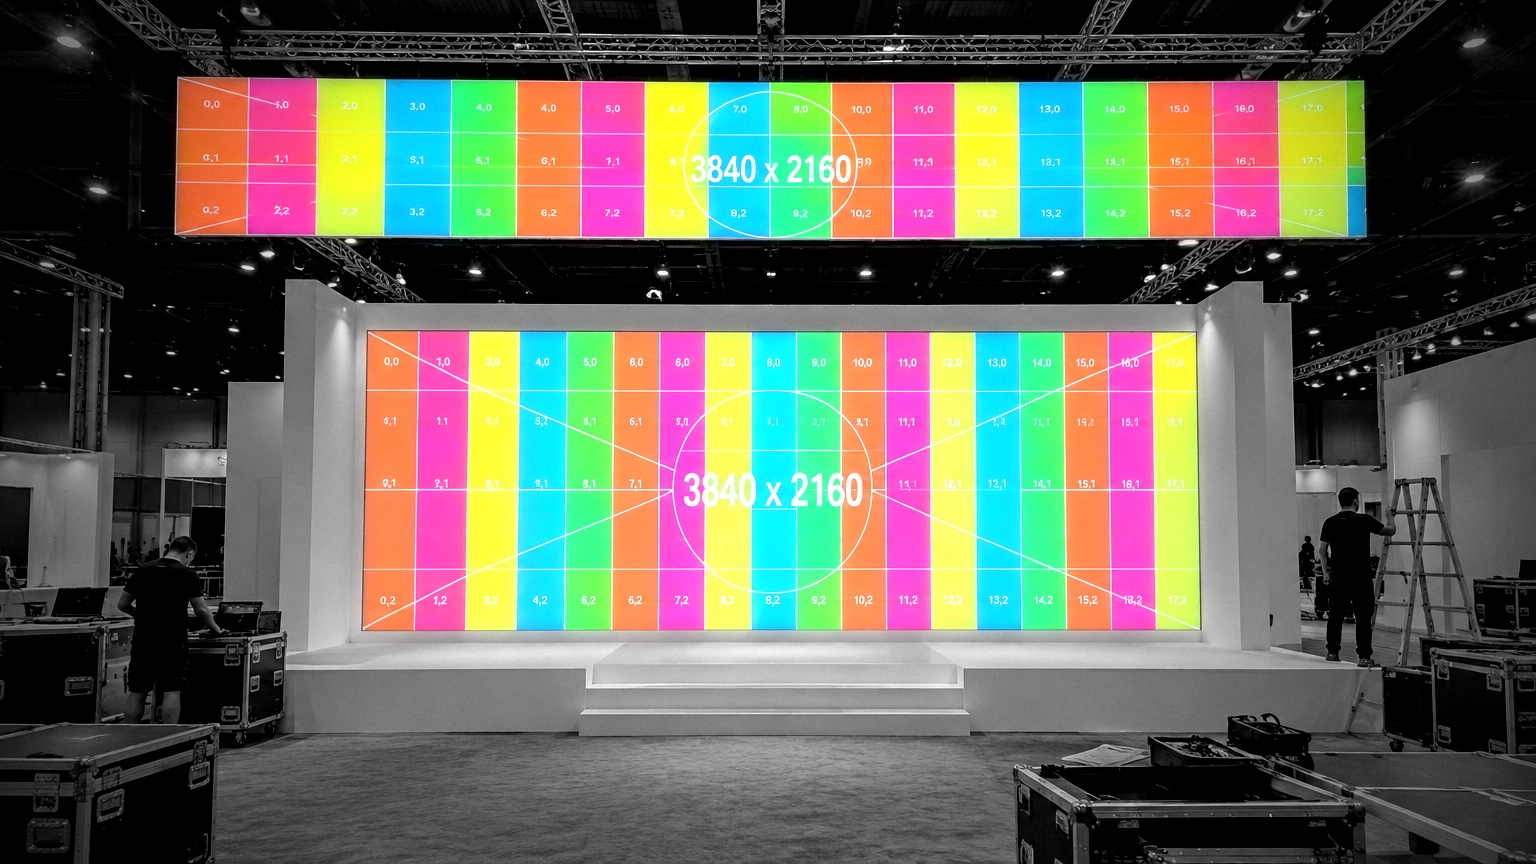
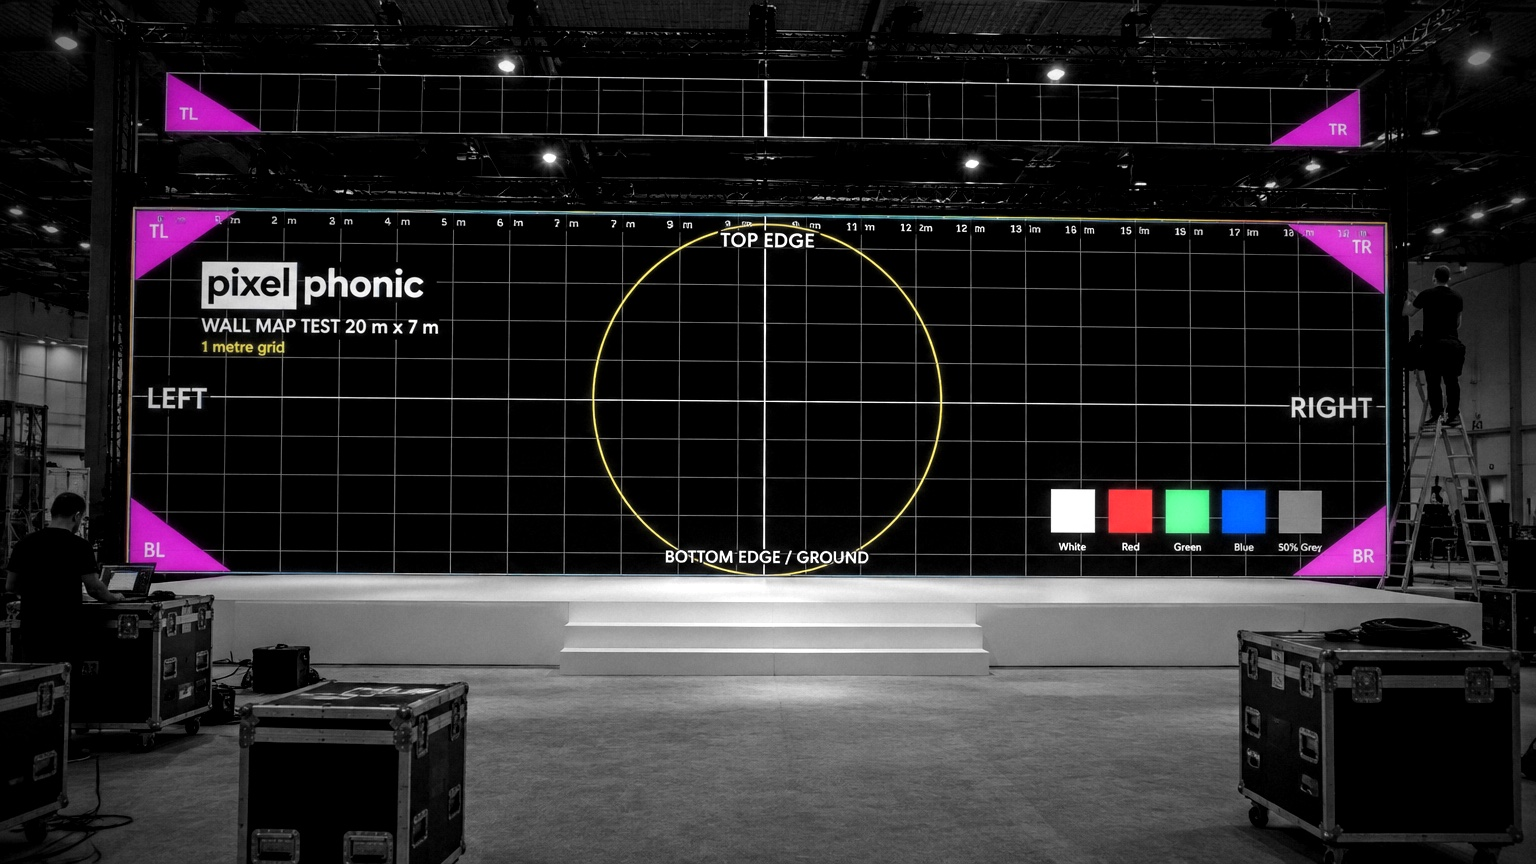
Exhibitions: LED wall now shows the Pixel Phonic wall-map test pattern

diff --git a/index.html b/index.html
@@ -91,7 +91,7 @@
 
     <section class="scene  tape-blue" aria-label="Exhibitions">
       <div class="sticky">
-        <div class="shot"><img src="assets/photo-exhibitions.jpg?v=27" alt="A white exhibition stand on build day, its LED wall and flown LED banner on a test grid in fluorescent tape colours" loading="lazy"><span class="big">Exhibitions</span></div>
+        <div class="shot"><img src="assets/photo-exhibitions.jpg?v=28" alt="A white exhibition stand on build day, its LED wall showing a Pixel Phonic wall-map test pattern" loading="lazy"><span class="big">Exhibitions</span></div>
         <div class="copy">
           <span class="num">01</span>
           <h3>Exhibitions</h3>
